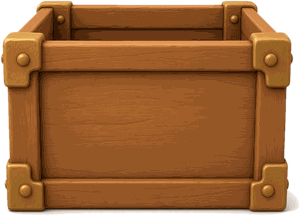
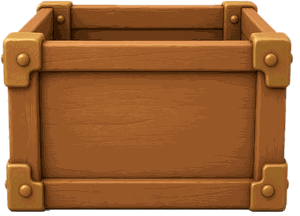
v13.2 (build 1793537801): asset halo/white-background cleanup (rembg matte in ground-shadow zone + edge decontam), halo audit/fix tools, before/after sheets

Changed region(s): [[0.03, 0.8889, 1.0, 1.0]]

diff --git a/index.html b/index.html
@@ -11,12 +11,12 @@ canvas{position:absolute;left:0;top:0;touch-action:none}
 </style></head><body>
 <canvas id="c"></canvas>
 <button id="fs" onclick="const d=document.documentElement,f=d.requestFullscreen||d.webkitRequestFullscreen;f&&f.call(d).catch&&f.call(d).catch(()=>{})">full screen</button>
-<script>fetch('version.json?'+Date.now(),{cache:'no-store'}).then(r=>r.json()).then(j=>{if(j.build!=='1793450201'&&!sessionStorage.bbReload){sessionStorage.bbReload=1;location.reload()}}).catch(()=>{})</script>
+<script>fetch('version.json?'+Date.now(),{cache:'no-store'}).then(r=>r.json()).then(j=>{if(j.build!=='1793537801'&&!sessionStorage.bbReload){sessionStorage.bbReload=1;location.reload()}}).catch(()=>{})</script>
 <script>/* v13.1 no pinch / double-tap zoom, long-press menus or page scroll on touch boards & tablets */for(const e of ['gesturestart','gesturechange','dblclick','contextmenu'])addEventListener(e,ev=>ev.preventDefault(),{passive:false});addEventListener('touchmove',e=>e.preventDefault(),{passive:false});addEventListener('keydown',e=>{if(e.key==='f'||e.key==='F'){const d=document.documentElement;if(!document.fullscreenElement&&d.requestFullscreen)d.requestFullscreen().catch(()=>{})}});</script>
 <script>/* v13.2 loader: old Chromium (Promethean ActivPanel / Android WebView) can't parse ?. and ?? and showed a blank screen.
    Detect it and load the ES2017 copies in js-legacy/ (built by tools/legacy.sh); show any startup error on screen. */
 (function(){var modern=true;try{new Function('var a={};return a?.b??1')}catch(e){modern=false}if(/[?&]legacy=1/.test(location.search))modern=false;
-var dir=modern?'js/':'js-legacy/',F=['echo.js','clapdet.js','mic.js','group.js','engine.js','groove.js','art.js','rooms/mine.js','rhythm.js','rooms/smasher.js','rooms/packing.js','shell.js'],V='1793450201';window.BB_LEGACY=!modern;
+var dir=modern?'js/':'js-legacy/',F=['echo.js','clapdet.js','mic.js','group.js','engine.js','groove.js','art.js','rooms/mine.js','rhythm.js','rooms/smasher.js','rooms/packing.js','shell.js'],V='1793537801';window.BB_LEGACY=!modern;
 window.addEventListener('error',function(e){var d=document.getElementById('bootErr');if(!d){d=document.createElement('pre');d.id='bootErr';d.style.cssText='position:fixed;left:0;right:0;bottom:0;margin:0;padding:8px;background:#400;color:#fff;font:14px monospace;z-index:99999;white-space:pre-wrap';document.body.appendChild(d)}
  d.textContent+=(e.message||'load error')+' '+(e.filename||(e.target&&e.target.src)||'')+(e.lineno?':'+e.lineno:'')+' | '+navigator.userAgent+'\n'},true);
 if('serviceWorker' in navigator&&(location.protocol==='https:'||location.hostname==='localhost')&&!/[?&]nosw=1/.test(location.search))addEventListener('load',function(){navigator.serviceWorker.register('sw.js?v='+V).catch(function(){})});

diff --git a/sw.js b/sw.js
@@ -1,6 +1,6 @@
 // v13.2 service worker: images, fonts, voice lines and scripts come from cache after the first visit (slow school Wi-Fi /
 // smartboards). index.html and version.json always try the network first so a new build is picked up.
-const C='bb-1793450201';
+const C='bb-1793537801';
 self.addEventListener('install',e=>self.skipWaiting());
 self.addEventListener('activate',e=>e.waitUntil(caches.keys().then(ks=>Promise.all(ks.filter(k=>k!==C).map(k=>caches.delete(k)))).then(()=>self.clients.claim())));
 self.addEventListener('fetch',e=>{const r=e.request,u=new URL(r.url);if(r.method!=='GET'||u.origin!==location.origin)return;
